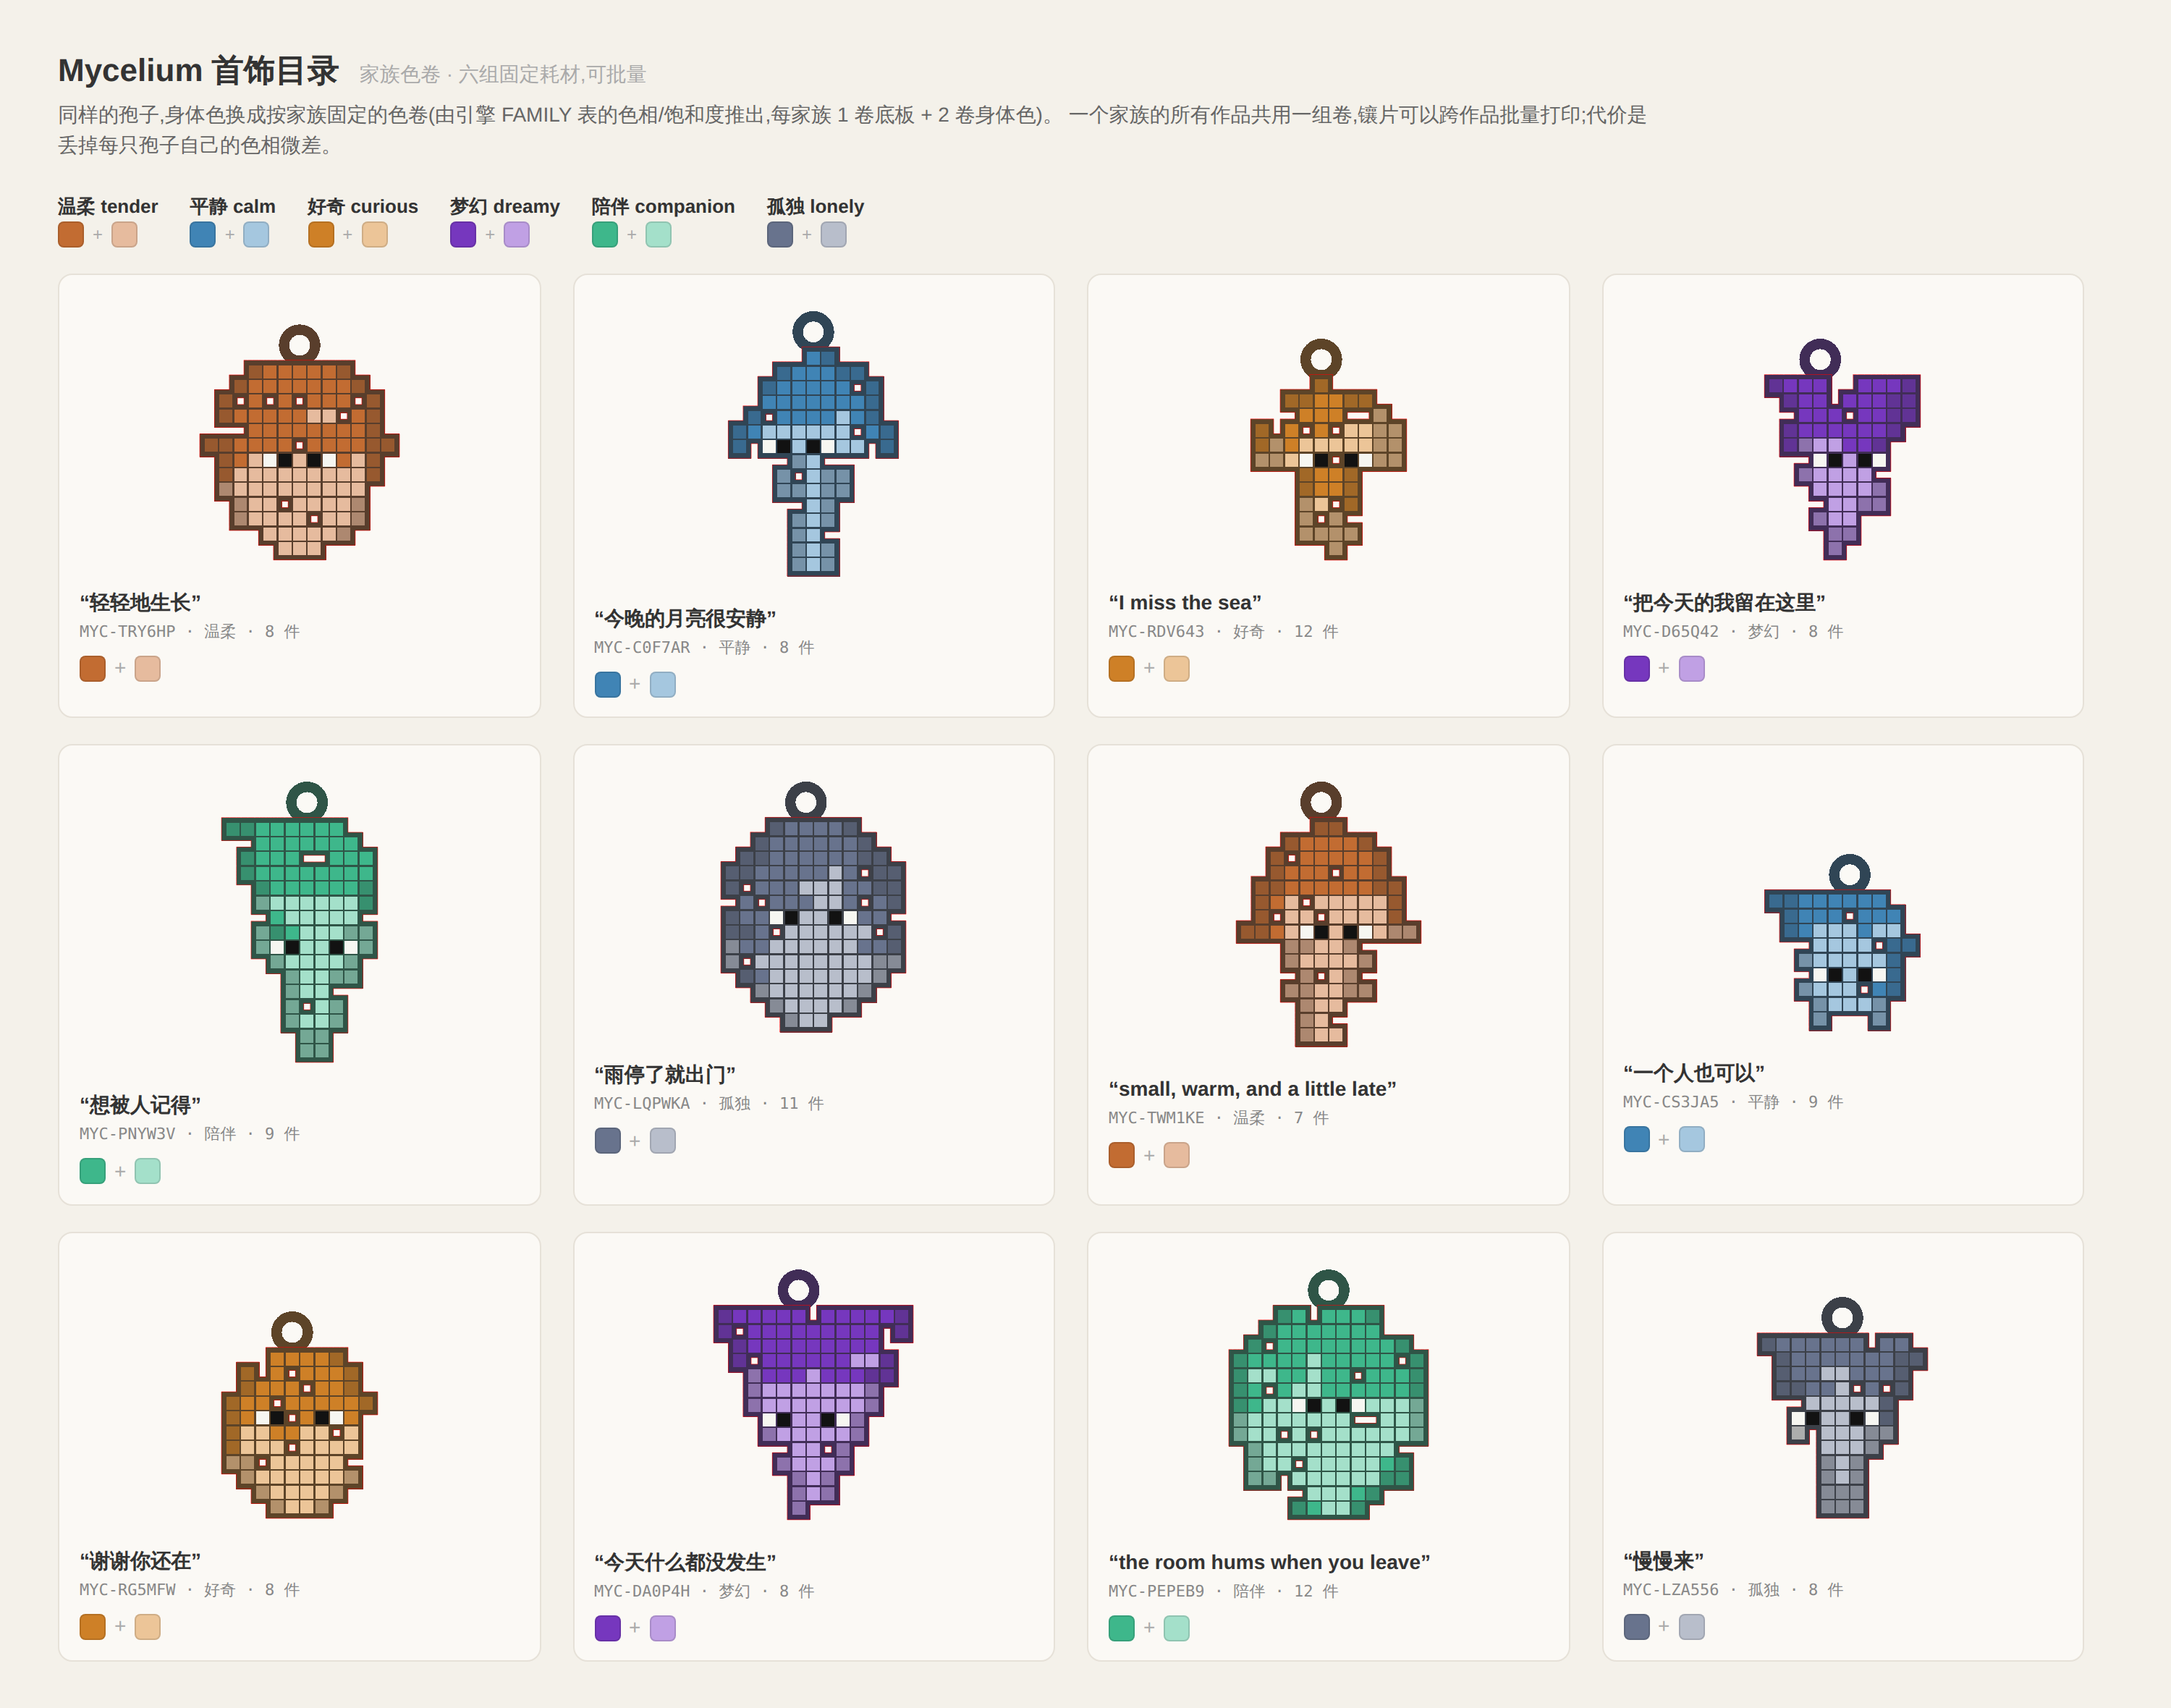
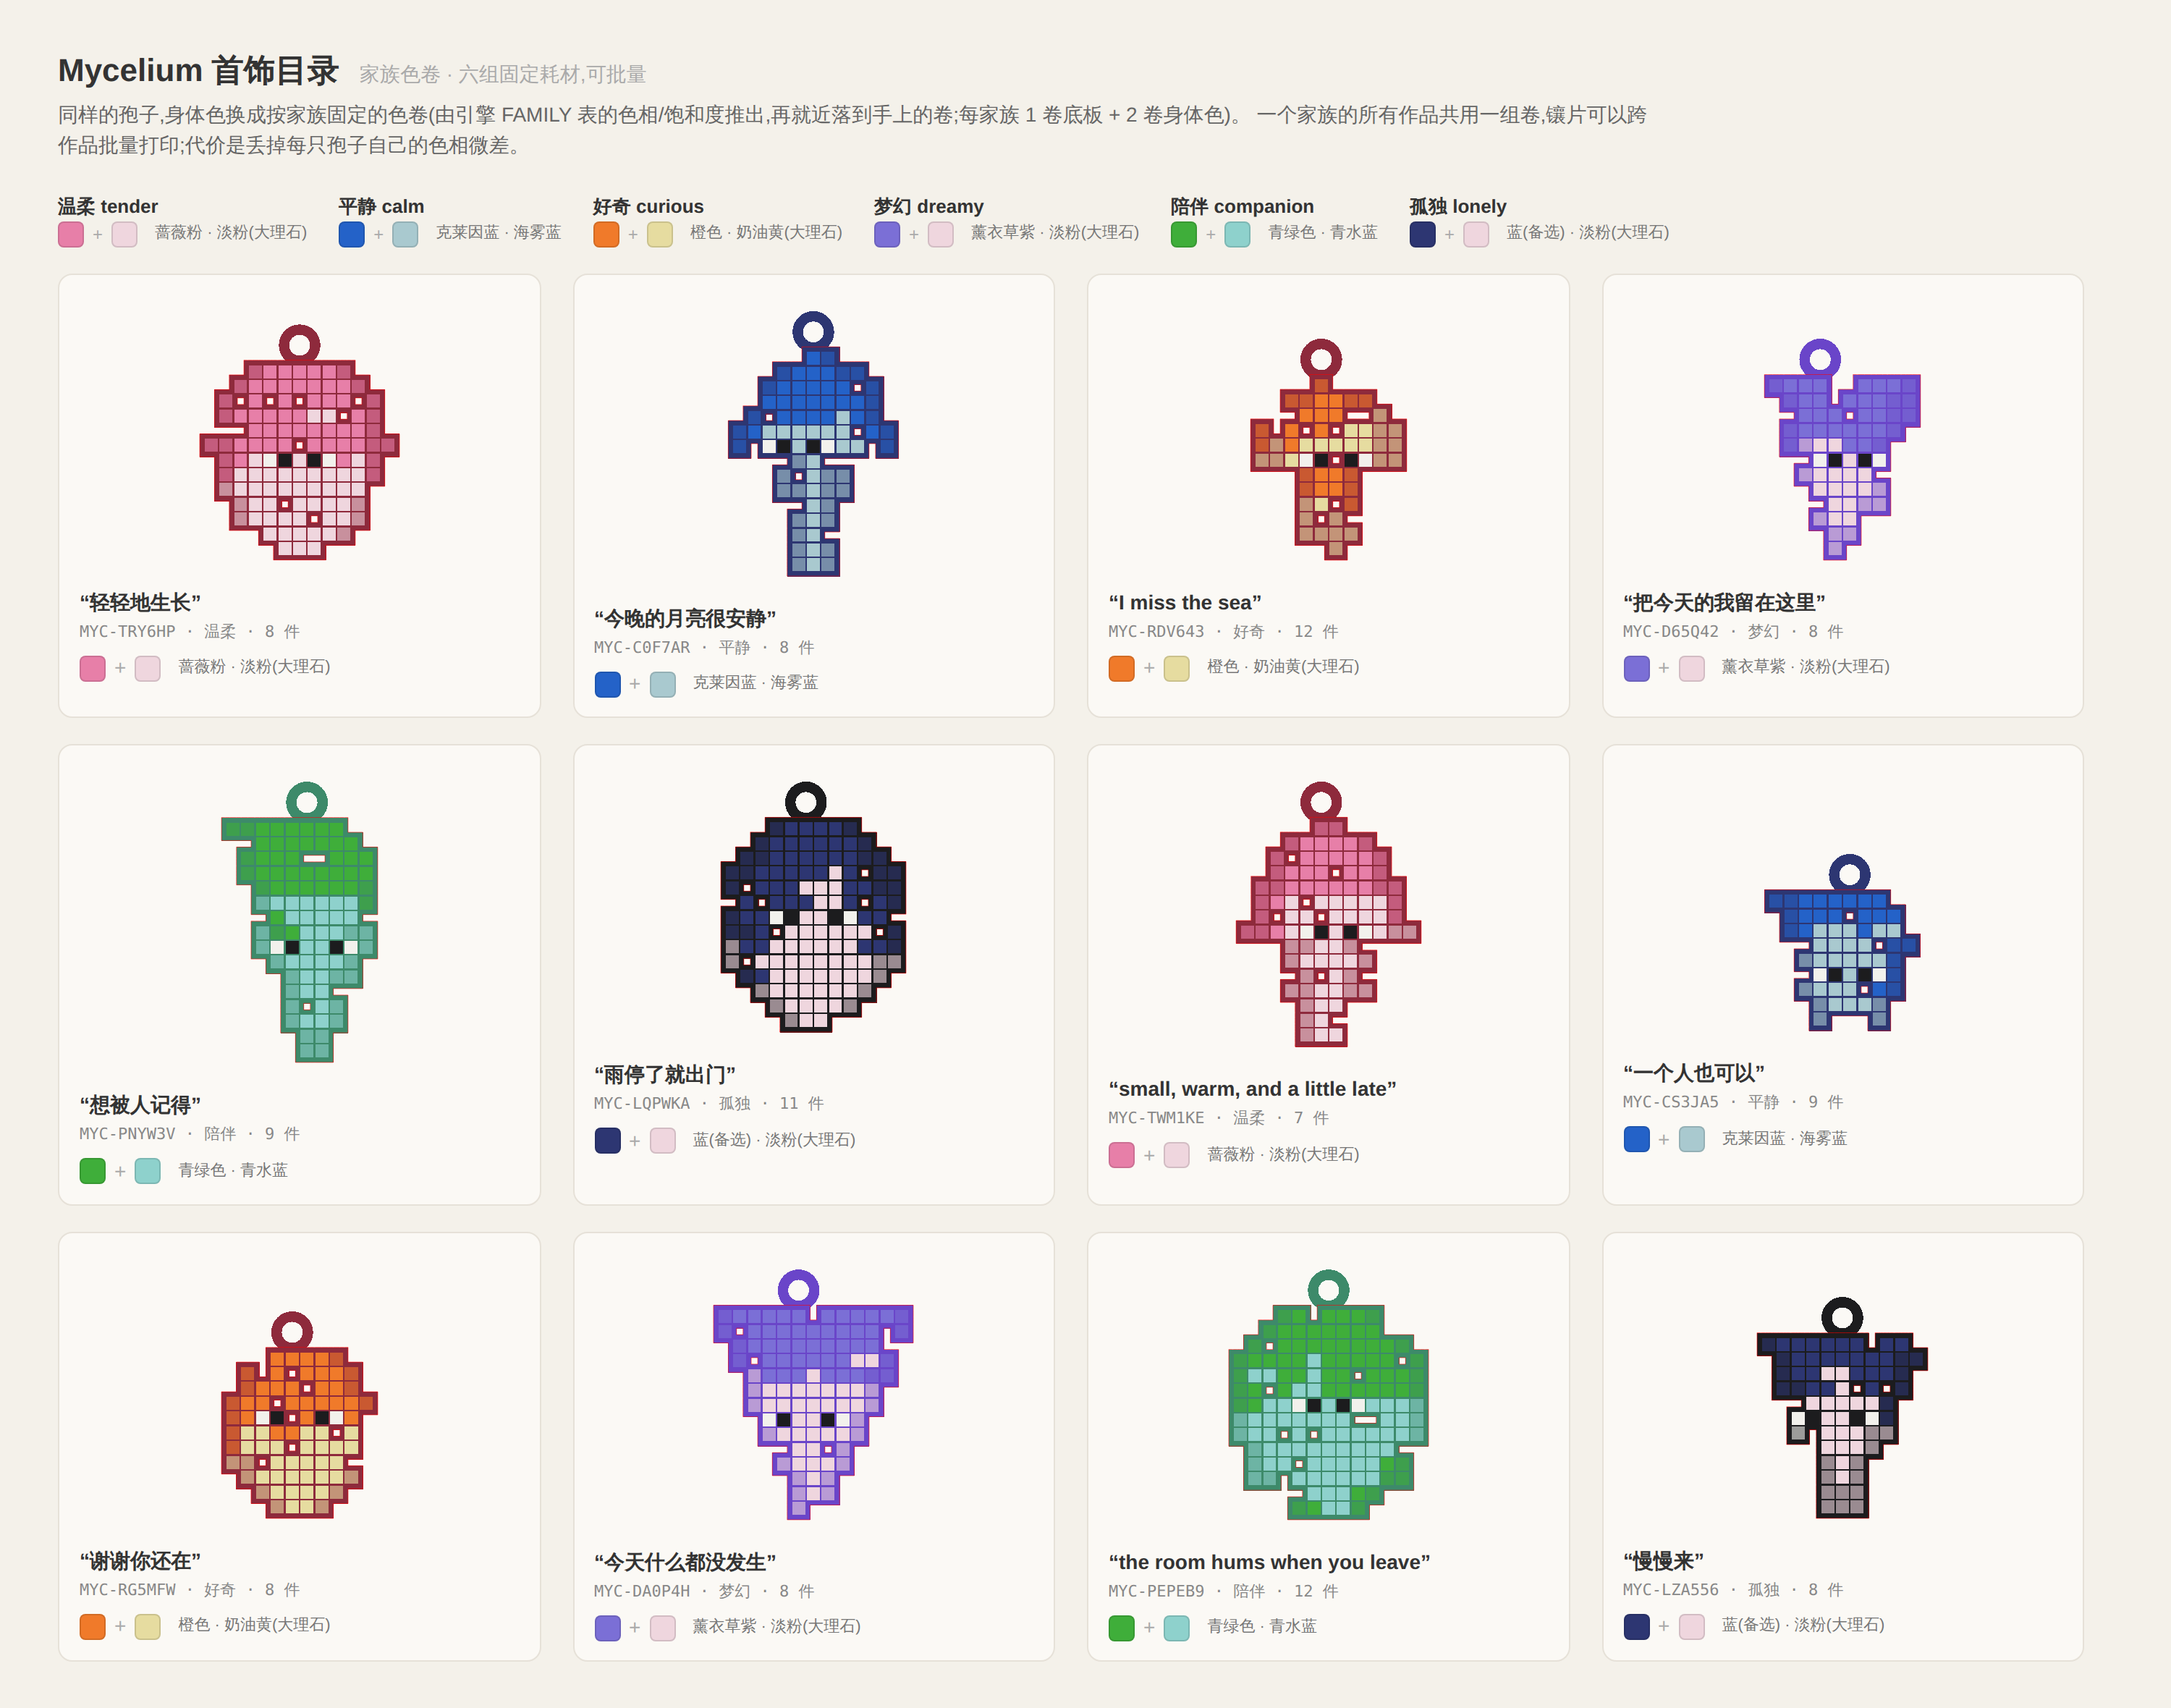
jewel: map colours onto the 22 owned spools
design/filaments.json now holds the real inventory (PLA+, photo-estimated
hex) plus six hand-picked family spool sets. With an inventory present the
generator defaults to --spool-map inventory: each spore's own lightness
bands snap to the nearest owned spool (CIE Lab, chroma-weighted, lightness
order kept; plate picked first from a darker spool in the family hue).
Bills, JSON and the catalogue name the spools; the catalogue is re-rendered.

Claude-Session: https://claude.ai/code/session_016ohK9Px558AkNzosvfgKq2

diff --git a/design/JEWELRY.md b/design/JEWELRY.md
@@ -67,8 +67,9 @@ npx tsx scripts/spore_jewel.mts --text "…" --loop hole                        
 | 开关 | 做什么 | 默认 |
 |---|---|---|
 | `--colors N` | 按明度分位把身体格压成 N 档,每档取均色 | assembly 2 档(+底板色) |
-| `--spool-map auto` | **本色**:每卷 = 这只孢子该明度档的均色,底板 = 它最深档压暗(最忠实) | auto |
-| `--spool-map family` | **家族色卷**:tender 桃 / calm 蓝 / curious 橙 / dreamy 薰衣草 / companion 薄荷 / lonely 灰,每家族 1 底板 + N 身体色,整批共用 6 组卷 | — |
+| `--spool-map inventory` | **本色 → 手上的卷**:每只孢子自己的调色板压成 N 档,每档就近落到 `design/filaments.json` 里的卷(Lab 色差、色相加权、保持明暗顺序);底板先选一卷贴近引擎"地面色"且不浅于身体的 | 有耗材库时默认 |
+| `--spool-map auto` | **本色**:每卷 = 该明度档的均色,底板 = 最深档压暗。引擎原色,不对应实际耗材 | 无耗材库时默认 |
+| `--spool-map family` | **家族色卷**:六组固定卷,定义在 `filaments.json` 的 `families`(按引擎 FAMILY 色相在手上的卷里选定,可改),每家族 1 底板 + N 身体色,整批共用 6 组卷 | — |
 | `--spools "#…,#…"` | 自定义固定色卷(按明暗接管明度档);`--spool-map nearest` 改为就近取色 | — |
 | `--plate "#hex"` | 底板耗材色(不填则取调色板最深一档再压暗) | — |
 | `--eyes own / merge` | 眼白瞳孔独立嵌件 / 眼白并入最浅色、瞳孔并入底板(少 4 片) | own |
@@ -115,9 +116,20 @@ npx tsx scripts/spore_jewel.mts --text "…" --loop hole                        
 卷数决定零件数:3 卷身体色 ≈ 12–15 件/只,2 卷 ≈ 9–11 件,1 卷 ≈ 6–7 件(都含 4 片眼睛)。
 想要新配色,直接 `--spools "#…,#…" --plate "#…"`,或在 `jewel_palettes.ts` 加一行。
 
-**自己的耗材库**:把手头的卷录进 `design/filaments.json`(名字 + 实际打印出来的 hex),
-之后 `--spools "樱花粉,雾蓝" --plate 深灰` 直接按名字调;`--list-filaments` 列出已录入的。
-hex 建议对着打出来的试片取色,比包装标称色准。
+**耗材库 `design/filaments.json`**:现录 22 卷(Taobao 高韧平光 PLA+,hex 为照片估算值,打印色签日光下拍照后校准)。
+有库时生成器默认 `--spool-map inventory`,`_parts.txt` 和目录卡片都直接写耗材名(深绿色 / 青水蓝 …);
+`--spools "rose,aqua" --plate deep-green` 可按名字手动指定;`--list-filaments` 列出全部。
+
+家族固定色卷(`families`,深→浅,`--colors 2` 取首尾):
+
+| 家族 | 底板 | 身体色卷 |
+|---|---|---|
+| 温柔 tender | 深红 | 蔷薇粉 · 初恋粉 · 淡粉(大理石) |
+| 平静 calm | 蓝(备选) | 克莱因蓝 · 宁静蓝 · 海雾蓝 |
+| 好奇 curious | 深红 | 橙色 · 黄色 · 奶油黄(大理石) |
+| 梦幻 dreamy | 紫色 | 薰衣草紫 · 胭脂雪 · 淡粉(大理石) |
+| 陪伴 companion | 深绿色 | 青绿色 · 牛油果绿 · 青水蓝 |
+| 孤独 lonely | 黑色 | 蓝(备选) · 海雾蓝 · 淡粉(大理石) |
 
 ## 3 · 三种件
 
